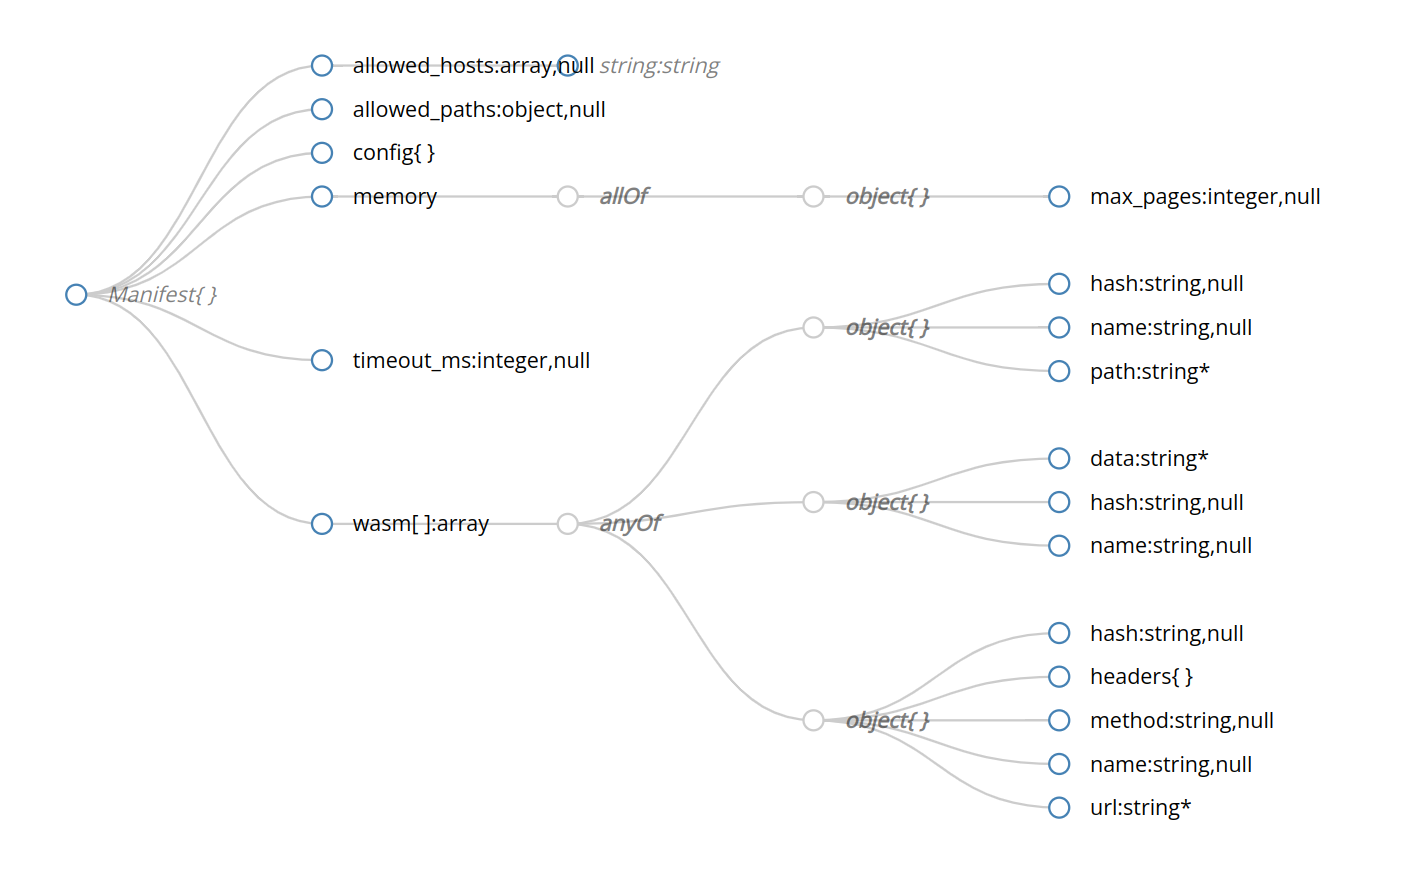
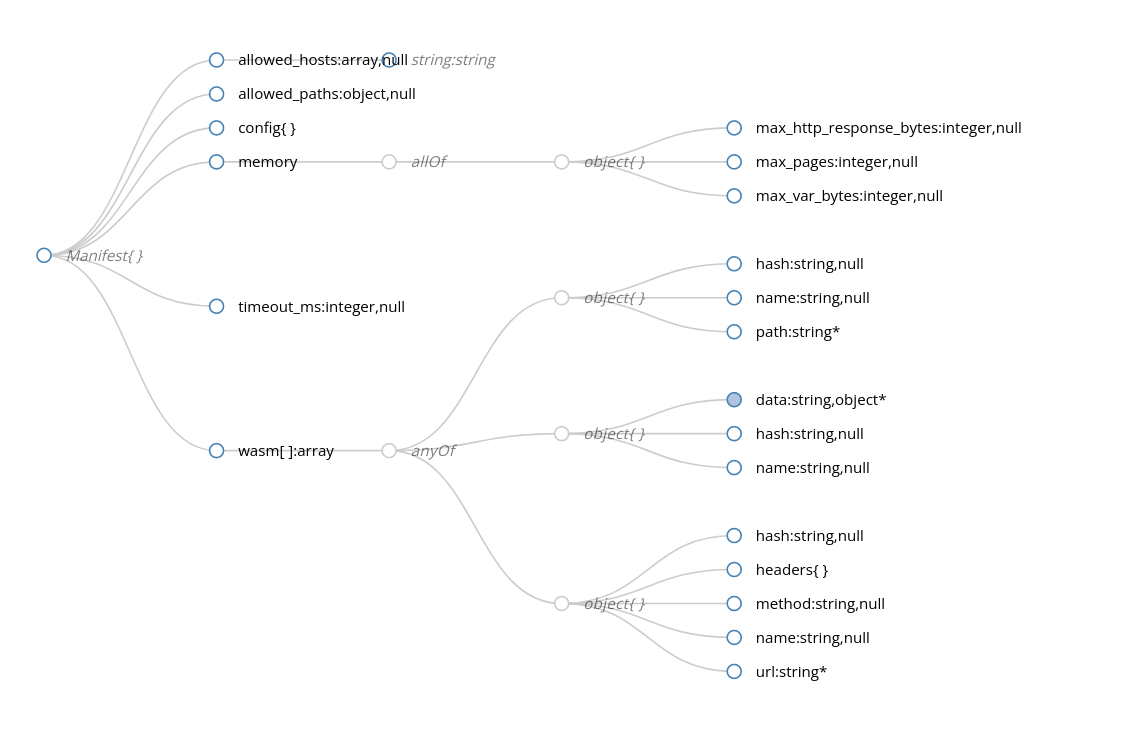
chore: update manifest (#164)
* chore: update manifest

* chore: update visualization

diff --git a/docs/concepts/manifest.md b/docs/concepts/manifest.md
@@ -70,10 +70,16 @@ plugin = context.plugin(manifest)
     ]
 
     # Describes the limits on the memory the plugin may be allocated.
-    # The units here are pages where a page is 64Kib. e.g. 16 pages would require 1MiB.
     "memory": {
         # The max amount of pages the plugin can allocate
-        "max_pages": 4
+        # One page is 64Kib. e.g. 16 pages would require 1MiB.
+        "max_pages": 4,
+
+        # The max size of an Extism HTTP response in bytes
+        "max_http_response_bytes": 4096,
+
+        # The max size of all Extism vars in bytes
+        "max_var_bytes": 4096
     },
 
     # An optional set of hosts this plugin can communicate with.
